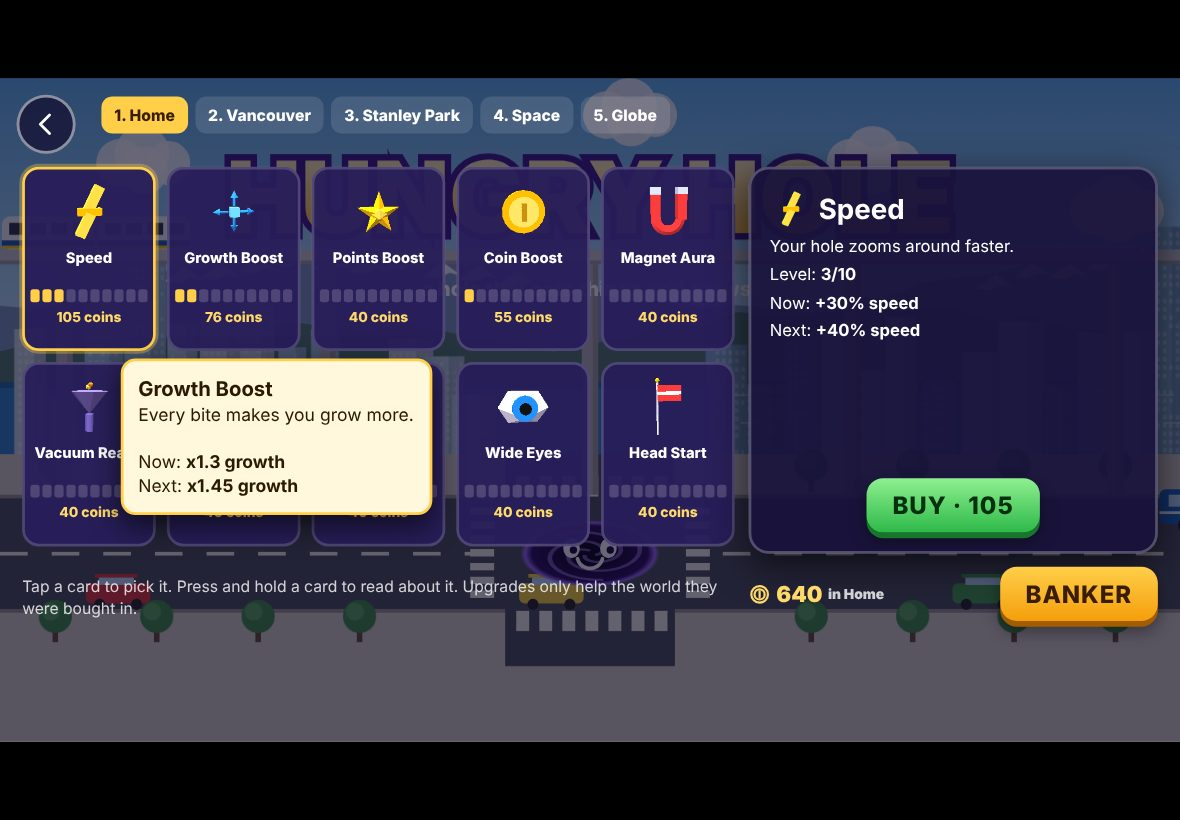
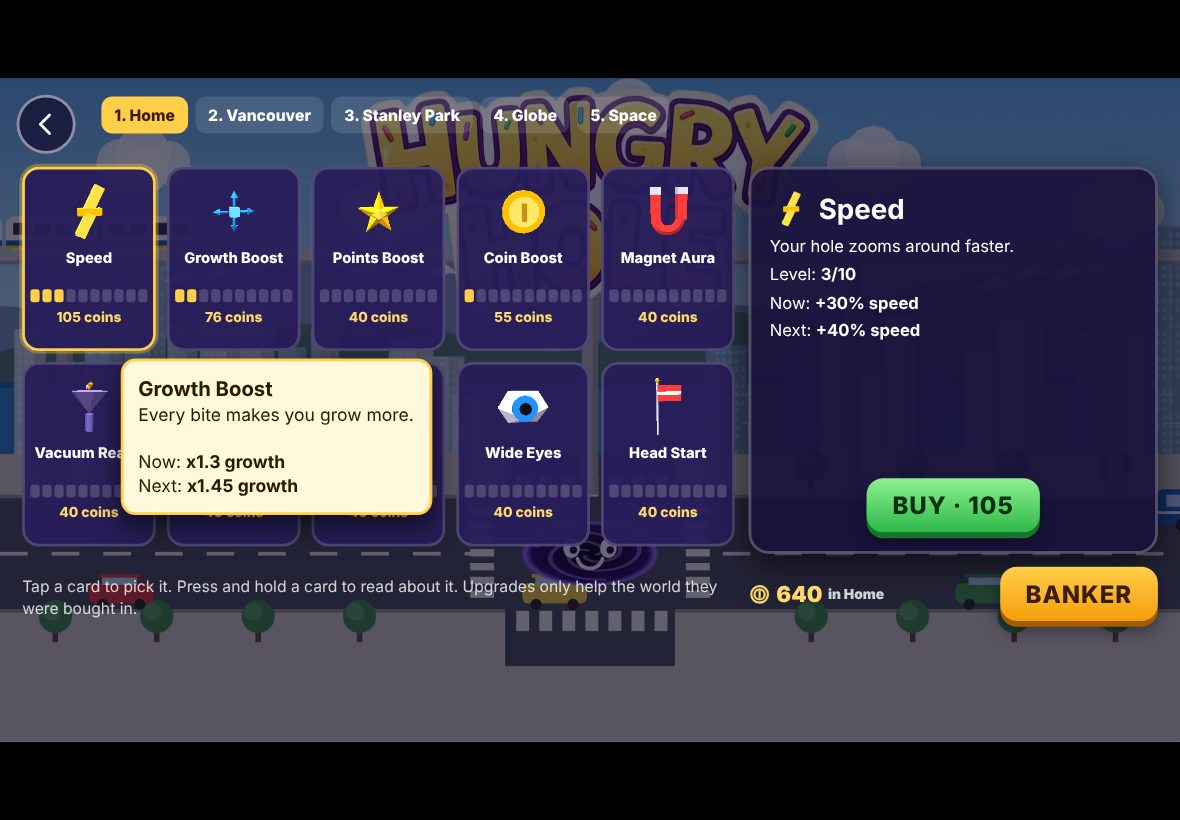
v5.1: Home storage bay opens to the carport (the pace bot stalled at size 9 with the shelf and toolbench out of reach); screenshots refreshed (old world-numbered shots removed, the Globe at both poles added); DECISIONS v5.1 section with co-op, every part, judgment calls, test results and pace
Claude-Session: https://claude.ai/code/session_01FDCb4RMWm88ANnD4Z2F1Rb

Changed region(s): [[0.1831, 0.0915, 0.8237, 0.3659], [0.4271, 0.7012, 0.4576, 0.7317], [0.0, 0.2744, 0.0305, 0.3049]]

diff --git a/tests/screens.js b/tests/screens.js
@@ -64,7 +64,8 @@ const URL = process.env.HH_URL || 'http://localhost:8765/index.html', OUT = proc
   }
   for (const [file, n, js] of [['57-w1-stairs-go-upstairs', 1, 'HH.setHoleD(.3); G.fl = 0; G.x = 2.8; G.y = 29.7'], ['58-w1-deck-stairs-go-downstairs', 1, 'HH.setHoleD(.4); G.fl = 1; G.x = 9.15; G.y = 16'],
     ['59-w1-cars-under-the-porch', 1, 'HH.setHoleD(1.2); G.fl = 0; G.x = 5; G.y = 18.5'], ['60-w2-yvr', 2, 'HH.setHoleD(120); [G.x, G.y] = G.C.P(-123.185, 49.1935)'],
-    ['61-w2-science-world', 2, "HH.setHoleD(30); const o = G.auth.find(o => o.id === 'scienceworld'); G.x = o.x; G.y = o.y + 70"], ['62-w2-north-mountain-forest', 2, 'HH.setHoleD(250); [G.x, G.y] = G.C.P(-122.62, 49.6)']]) {
+    ['61-w2-science-world', 2, "HH.setHoleD(30); const o = G.auth.find(o => o.id === 'scienceworld'); G.x = o.x; G.y = o.y + 70"], ['62-w2-north-mountain-forest', 2, 'HH.setHoleD(250); [G.x, G.y] = G.C.P(-122.62, 49.6)'],
+    ['64-w4-globe-at-the-north-pole', 4, 'HH.setHoleD(G.C.sizes[11]); [G.x, G.y] = G.C.P(-40, 89.4)'], ['65-w4-globe-at-the-south-pole', 4, 'HH.setHoleD(G.C.sizes[10]); [G.x, G.y] = G.C.P(60, -89.7)']]) {
     await p.evaluate(([n, js]) => { const { G } = HH; HH.UI.closeModal && HH.UI.closeModal(); HH.startChapter(n, 'explore'); new Function('G', js)(G); G.cam.x = G.x; G.cam.y = G.y; }, [n, js]);
     await p.waitForTimeout(2200); await shot(p, file);
   }

diff --git a/index.html b/index.html
@@ -464,7 +464,7 @@ const CH = [null];
   // doorways: x, y (centre, unshifted), width, 'h' (gap in an east-west wall) or 'v', floor(s), door: an open door stands beside it
   const OPEN = [
     // lower floor
-    [5, 9, 7.4, 'h', 0], [5, 14.2, 1.4, 'h', 0], [4.8, 15.8, .9, 'h', 0, 1], [4.3, 17.1, .9, 'v', 0, 1], [5.3, 17.1, .9, 'v', 0, 1], [4.3, 20.7, .8, 'v', 0, 1],
+    [5, 9, 7.4, 'h', 0], [5, 14.2, 6.4, 'h', 0], [4.8, 15.8, .9, 'h', 0, 1], [4.3, 17.1, .9, 'v', 0, 1], [5.3, 17.1, .9, 'v', 0, 1], [4.3, 20.7, .8, 'v', 0, 1],
     [4.3, 22.7, .8, 'v', 0, 1], [1.9, 24.8, 1.1, 'h', 0], [4.8, 24.8, .9, 'h', 0], [5.3, 20.6, 1.6, 'v', 0], [6.2, 21.8, 1.6, 'h', 0],
     [7.1, 20.6, .8, 'v', 0, 1], [5.3, 26.6, 1.4, 'v', 0], [3, 28.4, .95, 'h', 0, 1], [9.2, 7.4, 1, 'h', 0],
     // main floor

diff --git a/docs/DECISIONS.md b/docs/DECISIONS.md
@@ -633,3 +633,151 @@ What is ready: the partner dot on the minimap and the mini-globe (`G.mate`) and 
 | W5 The Globe | 9.6 | 0.37 0.97 1.15 1.33 2.33 4.87 6.05 7.81 8.70 9.04 9.40 9.62 | ~78, ~67 |
 
 All five worlds finish inside the 8–15 minute window. The game itself uses `Math.random`, so the same seed varies by about a minute between runs (one Home run at an interim tuning came in at 7.5, which is why Home was nudged to `needP` 1.13). Vancouver, Stanley Park and Space sit near the bottom of the window. A real child explores more than the bot, so they should land mid-window; tune `need` up per world if Kakashi finds them quick.
+
+---
+
+# v5.1 — two-iPad co-op, Parts 2–14, owner requests (branch `claude/hungry-hole-v51-coop`)
+
+## Co-op (all four modes) — SHIPPED, verified in tests, NOT yet verified on real iPads
+- **How two iPads find each other:** the host taps *Play together → Host* and gets a 6-letter room code (no I/O/0/1 look-alikes). The guest types it in. Signalling goes through the public PeerJS broker (`peerjs@1.5.4` from jsDelivr, room id `hungryhole-v51-<CODE>`); after that the iPads talk directly over WebRTC. No server of ours.
+- **PeerJS is loaded only when a co-op button is tapped** (`NET.load`, 9 s timeout). A blocked or offline CDN never touches solo play: the game boots and plays with zero console errors, and only the co-op buttons say "Can't connect right now…" (test: *PeerJS blocked*).
+- **Host-authoritative.** The host runs the world: the eaten set, the objective ladder, the size cap, I Spy hands, lesson steps and placed targets. The guest predicts its own hole and asks; the host confirms or refuses. Every wire message is checked (`W8`) before use; junk is dropped.
+- **Messages:**
+  - Setup: `hello`, `ready`, `start`.
+  - Movement and state: `pos`, `st`, `cap`, `sz`, `ups`.
+  - Eating: `re` (request), `add`, `learn`, `win`, `done`.
+  - Repair: `snap` (full resync), `need`, `full`.
+  - Session: `pause`, `hb` (heartbeat), `bye`, `nope` (refused, e.g. version mismatch).
+- **Saves:**
+  - Each iPad keeps its own save under the unchanged key `hungry-hole-data-v1`.
+  - The guest's coins are banked into the guest's wallet exactly once.
+  - The guest's own world progress is never changed by playing in someone else's room.
+  - Exploration saves nothing for either iPad.
+- **Disconnects:**
+  - A `bye`, or 6 s without hearing anything (heartbeats go every second), drops the partner.
+  - The host carries on solo with the guest's coins banked.
+  - The guest returns to the menu with its coins kept.
+- **Evidence:** `tests/coop.js` passes 19/19. It runs two browser contexts with separate saves over a BroadcastChannel transport (`?nettest=bc`). It covers:
+  - host, join and `hello`
+  - position sync
+  - both holes advancing the ladder
+  - the size cap
+  - snapshot repair
+  - coins banked once
+  - shared pause
+  - disconnect
+  - I Spy together, with the shared hand and the bonus to both wallets
+  - Educational, Exploration, Globe and Space together
+  - a `hello` version mismatch
+  - junk wire messages
+  - heartbeat timeout
+  - blocked PeerJS
+- **Not verified, said plainly:**
+  - The live PeerJS cloud broker could not be reached from this container.
+  - Two real iPads could not be exercised.
+  - iOS Safari's mDNS-hidden local addresses can stop a direct WebRTC link on some home routers. That would need a TURN relay, which is a server, and none is configured.
+  - Kakashi: please try it once on two iPads on the home Wi-Fi before merging. If the link never forms, the fix is a TURN entry in the `new Peer({...})` config, not a code rewrite.
+- **Uptime:** the broker is third-party, so we don't control its uptime. When it is down, co-op says it can't connect and solo play is untouched.
+
+## Part 2 — music
+A pause overlay never changes or restarts the music (Upgrades, Quest Board). `tests/audio.js` proves both the track and its playback position (9/9). The audio files and the manifest are untouched.
+
+## Part 3 — minimap
+The minimap moved to the top-left, with the objective/quest stack below it. The bottom-left is free for the joystick.
+
+## Parts 4–5 — Vancouver ground
+- Residential and school land is lawn green (`#a8cf86`).
+- North of about 49.9° (Whistler), the ground is snow (`#f2f5f8`), the green areas are drawn as snow, and peaks use snow colours.
+- The mountain land-use cells between the city and Whistler are forest green, not grey alpine.
+
+## Part 6 — rectangle boundary
+- Metro Vancouver's playable area is now the whole map rectangle. The irregular play polygon was removed, and reachability checks every cell in the rectangle.
+- **Judgment call:** the owner's older rules (SPEC #15: Langley is out, nothing south of the border) are kept for *named places*. Those places' labels and landmarks aren't placed, though the ground there is playable. Otherwise the open rectangle would start labelling Langley and Washington State.
+
+## Part 7 — YVR
+- Buildings and ground:
+  - the International and South terminals
+  - the control tower
+  - three parkades and a car lot
+  - hangars, checked against the water mask
+  - a fuel farm
+- Planes:
+  - 3 planes taxi.
+  - Take-off and landing circuits run on both runways (3 + 2 planes). They climb and descend along the path (`alts`), and a plane in the air can't be eaten.
+  - 3 high flyovers.
+
+## Part 8 — Science World
+- Science World is a geodesic sphere (icosphere detail 2) with a strut along every edge, on columns, with a plaza and an entrance wing, at real scale.
+- Its exact coordinates fell in the water mask, so it is placed at the nearest dry spot, at the east end of False Creek (lon −123.1026, lat 49.2741).
+
+## Part 9 — Home
+- "GO UPSTAIRS" and "GO DOWNSTAIRS" signs with arrows are painted at both ends of the stairs.
+- There is **no garage**. The two cars sit in a carport under the porch, and a storage room behind it holds the toolbench, the shelf and the recycling.
+- The garden beds moved clear of the deck stairs.
+- **Judgment call:** the old garden-bed layout also passed a plain smallest-size flood test, so reachability now also checks that the stair foot is clear.
+- **Judgment call (found by the pace bot):** the storage room behind the carport is only 1.6 m deep. With the 1.4 m doorway first drawn there, a big hole could never get at the toolbench, the shelf or the recycling, and the Home bot stalled at size 9 short of the family car (20.4 and 20.9 minutes). The storage room now opens to the carport across 6.4 m, like an open back bay under the porch. The bot then finishes in 10.1 and 12.2 minutes (seeds 0 and 3), and reachability is still 100%.
+
+## Part 10 — Exploration sandbox
+Upgrades are free 0–10 steppers in Exploration. They last for the session only and are never saved.
+
+## Part 11 — no perpetual teeter
+Nothing rocks forever. A thing that doesn't qualify sits still against the hole. A qualifying bump topples a thing in once. Behaviour tests cover both.
+
+## Part 12 — never show the void
+- Past every edge and corner, the world visibly continues as scenery you can't eat:
+  - **Vancouver:** sea to the west, snowy peaks to the north, valley forest to the east, towns to the south.
+  - **Stanley Park:** sea to the west and north, city streets to the south and east.
+- Screenshots 50–56 show every world at max size at a map corner.
+
+## Part 13 — the Globe over the poles
+- **How it works:**
+  - The Globe no longer wraps top to bottom.
+  - Driving past a pole puts you at the same point on the sphere: longitude +180°, latitude mirrored. Your velocity carries on (you are now heading away from the pole), and the camera turns half a circle round the hole in the same frame.
+  - Just past the pole, the far side of the Earth is drawn turned round the hole's meridian, both the ground and the things on it. That is exactly what the turned camera shows after the crossing, so **nothing on screen moves at the crossing**. Before/after screenshots at both poles match, apart from twinkling glints and clouds that drift with time.
+  - Things past the pole are drawn only. You can eat them once you are over.
+- **Evidence:** `tests/behaviour.js` runs two tests, one from northern Canada (−100°, 80°) over the North Pole and one from Antarctica (30°, −80°) over the South Pole. With the stick held straight, each drive:
+  - lands at longitude +180 (80° E, in Russia; −150° for the south run)
+  - takes the same distance per frame on the sphere across the crossing
+  - shows no kink on screen in the hole or in four tracked points on both sides of the pole (0 px)
+- **Judgment call:**
+  - The camera stays turned (south-up) while the finger stays down, so a held drive stays straight.
+  - When the finger lifts, the camera swings smoothly back to north-up over about two seconds.
+  - This relaxes the v5 rule that "the camera never turns", for the Globe only.
+  - The minimap and the mini-globe stay north-up.
+- **Also:**
+  - A country's edge along the pole itself is no longer stroked as a border.
+  - The Antarctic plateau is painted solid to the pole, so there is no seam line.
+  - Drifting clouds and storms that drift over a pole are folded too.
+  - In co-op, a partner who crosses a pole is snapped, not slid round the world.
+
+## Part 14 — Space
+Space's ambient scatter was cut by half (spec addendum 13). The longer run was accepted by the owner, and the bot time is in the table below.
+
+## Owner requests during the build
+- **Main menu art:** the owner's HUNGRY HOLE logo and the four button images, plus the settings icon, cut from the owner's menu image. The moving background is kept.
+- **World order:** World 4 is now **the Globe** and World 5 is **Space** (size order).
+  - Existing saves are moved once (`migrate51`, marked `w51`): each world keeps its own wallet, upgrades, eaten set, beat, I Spy and Educational progress.
+  - If World 3 was finished, World 4 (the Globe) is unlocked.
+  - **Judgment call:** the finale (+5000 coins, the journey flag, credits) moved with the last world, so it now plays after **Space**, and the credits read "…to the whole world… to the Sun itself".
+  - The music stays with its world: the Globe keeps `ch5.mp3`, Space keeps `ch4.mp3`. No audio files changed.
+
+## v5.1 results (tests at hand-off)
+| Suite | Result |
+| --- | --- |
+| `tests/data.js` | PASS ×5, no errors |
+| `tests/behaviour.js` | 29/29, including the v5 → v5.1 world-order move and both pole drives |
+| `tests/coop.js` | 19/19 |
+| `tests/audio.js` | 9/9 (Globe `ch5.mp3`, Space `ch4.mp3`; a pause overlay keeps the track and position) |
+| `tests/ui-flow.js` | clean, 0 console errors |
+| `tests/reachability.js` | 100% in all five worlds; Vancouver's whole rectangle; Home deck → backyard at the smallest size, stair foot clear |
+| `tests/screens.js` | refreshed, 0 console errors. New: 50–56 (each world at max size at a map corner), 57–62 (stairs, carport, YVR, Science World, north forest), 63 (play-together picker), 64–65 (the Globe at the North Pole and the South Pole) |
+| `tests/perf.js` | GPU-less headless: Vancouver 18.6, Stanley Park 22.8, Globe 14.6–16.2 fps. The pre-Part-13 build measures the Globe at 15.6 on the same machine, so the pole work costs nothing measurable. The 50 fps target still needs a real iPad. |
+
+### Pace bot, v5.1 (`node tests/balance-bot.js 1,2,3,4,5 40`, sim-minutes; window 8–15, Space relaxed)
+| World | Finish | Objectives eaten at (min) |
+| --- | --- | --- |
+| W1 The Home | 10.1 / 12.2 (seeds 0 / 3), after the storage fix | 2.12 3.63 4.33 6.03 7.21 7.84 9.52 10.08 |
+| W2 Metro Vancouver | 8.1 | 2.41 3.04 3.89 4.02 5.25 6.15 7.14 8.04 8.12 8.15 |
+| W3 Stanley Park | 8.5 | 0.13 0.24 0.62 3.99 6.07 7.17 7.97 8.41 8.48 8.54 |
+| W4 The Globe | 10.0 | 0.37 1.08 1.29 1.57 2.52 5.03 6.18 7.85 8.84 9.24 9.7 10 |
+| W5 Space | 8.0 | 0.11 0.35 0.39 0.48 0.85 4 6.7 7.43 8.01 |
